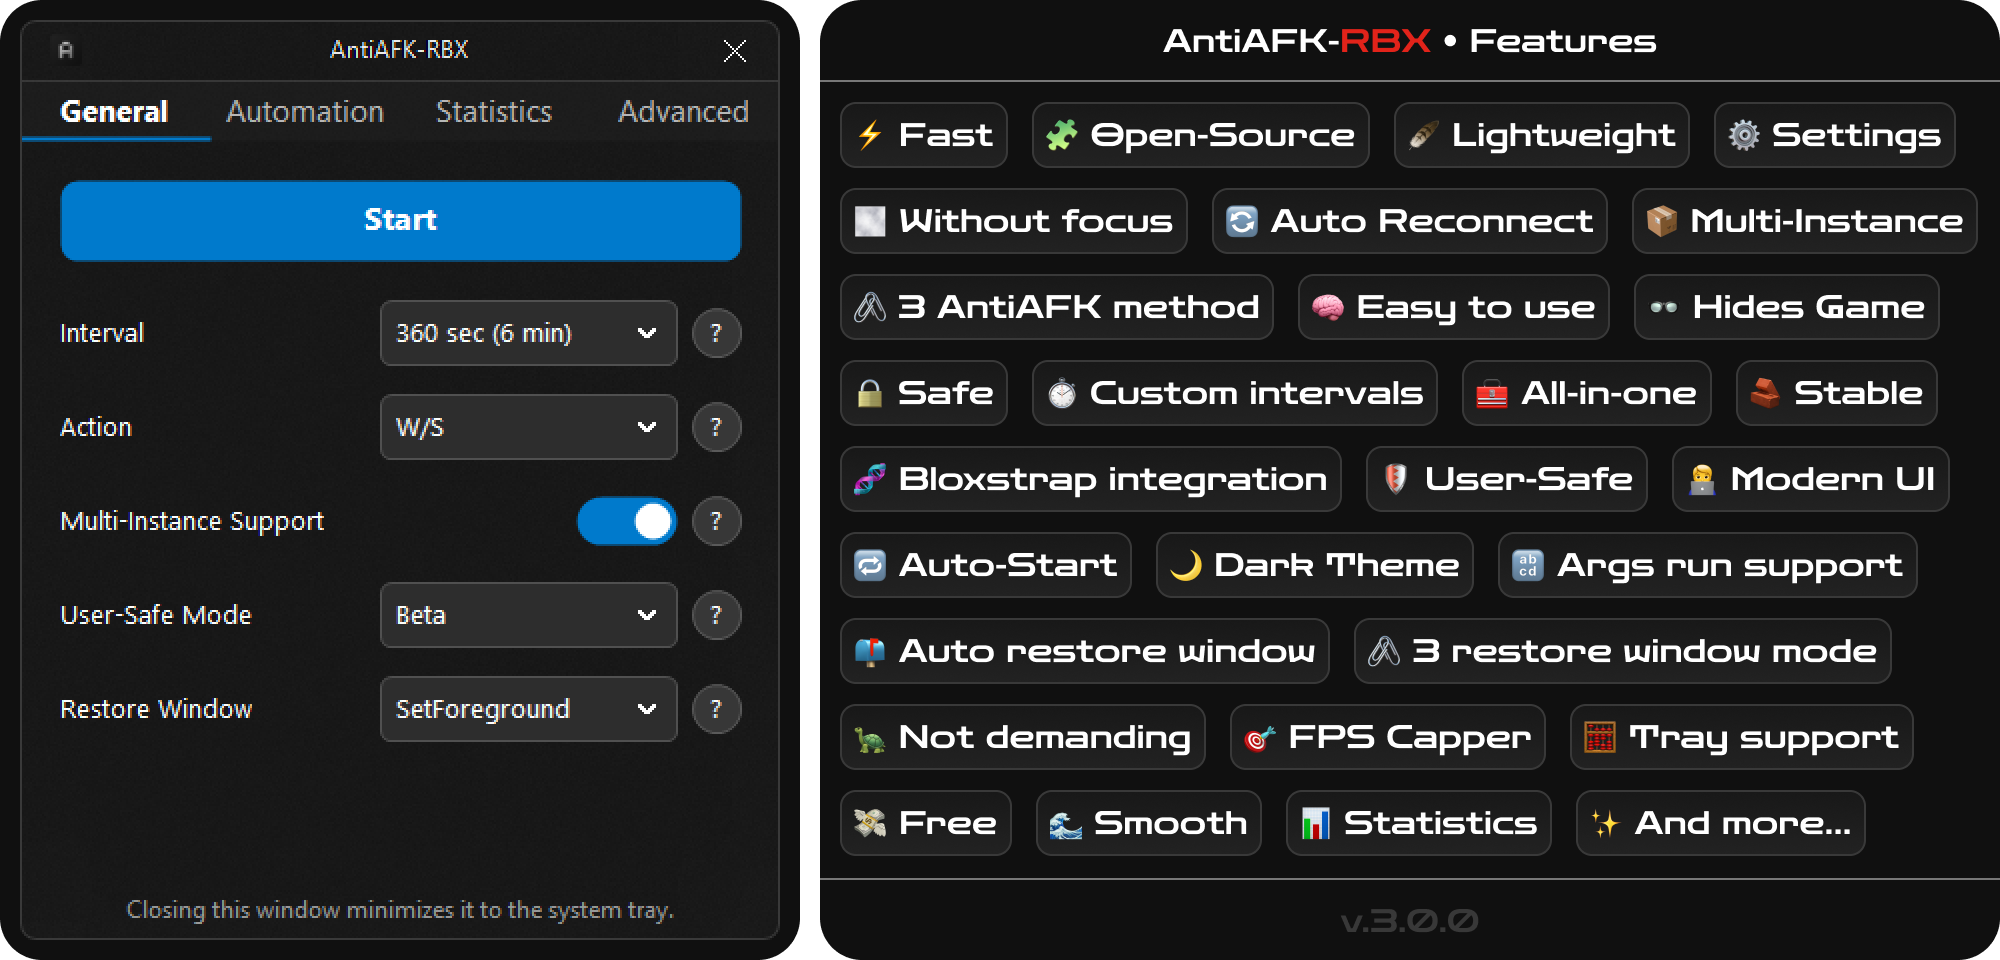
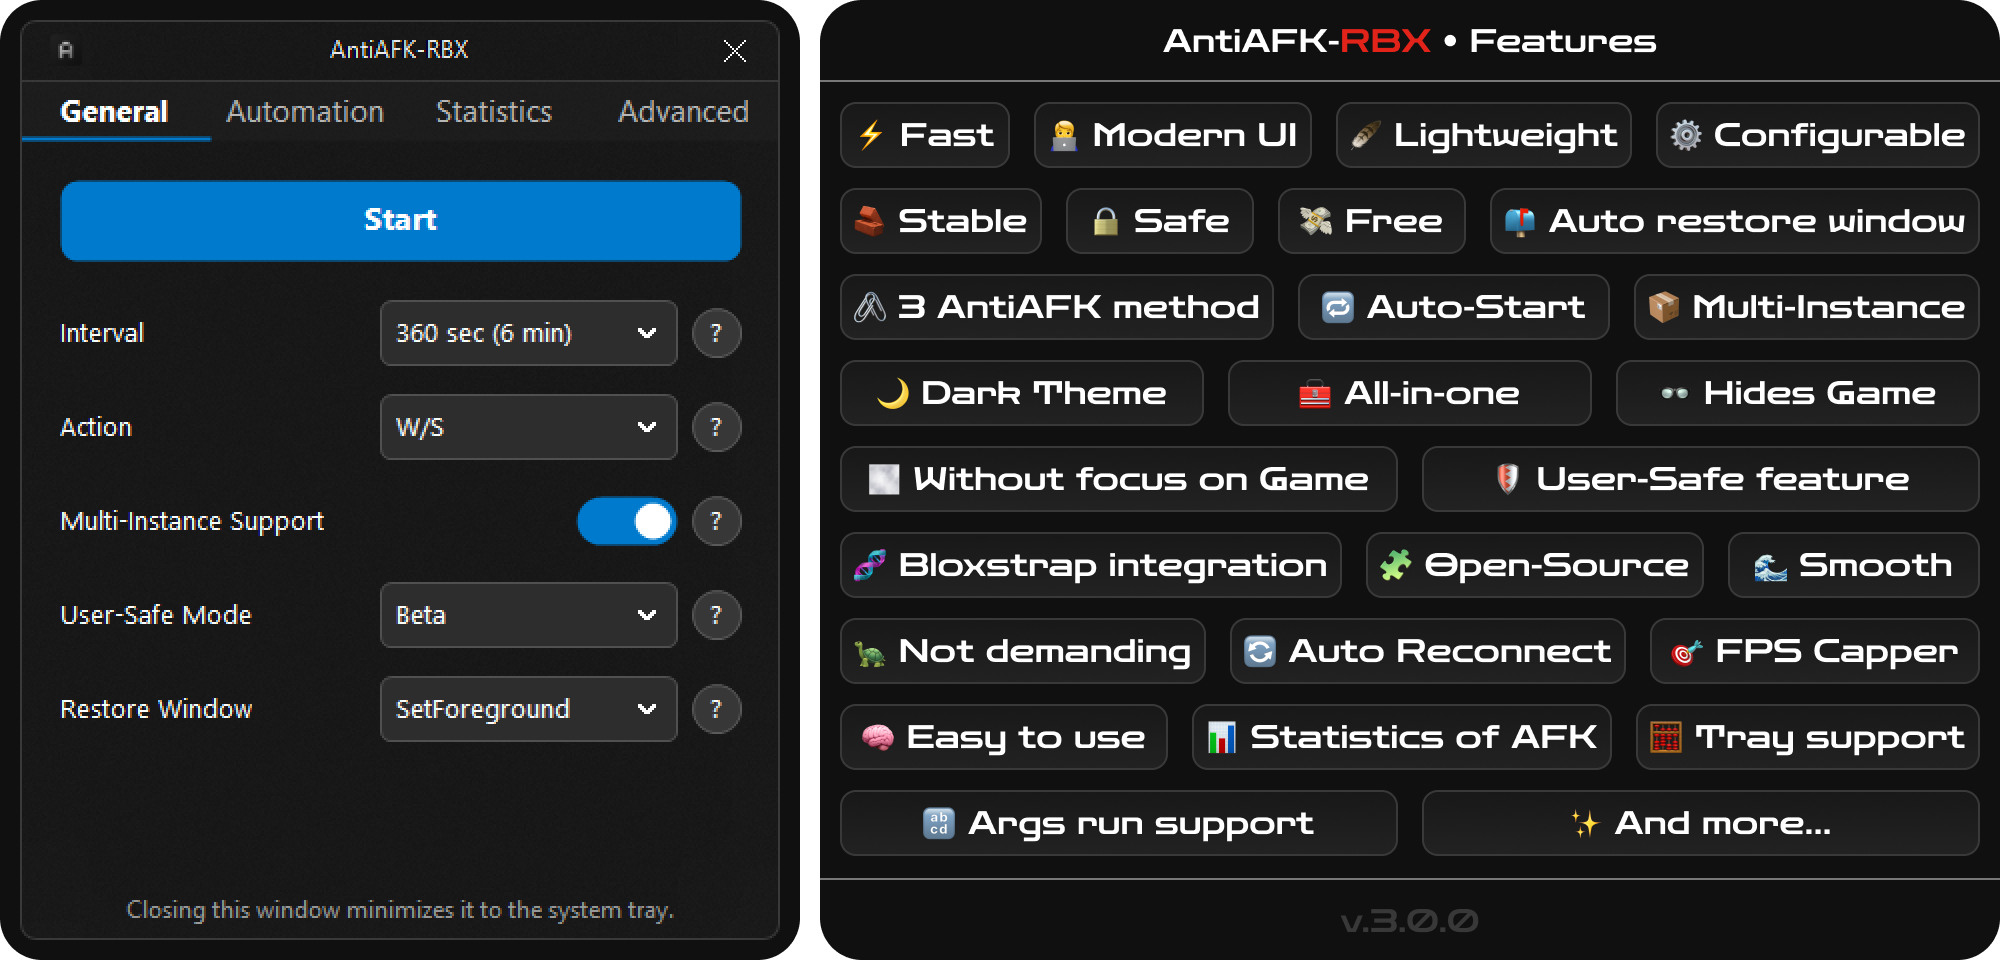
🖼 • ReadME

diff --git a/README.md b/README.md
@@ -4,7 +4,7 @@
 
 
 ![AntiAFK-RBX by Agzes v.3.0 Banner ](ReadME/V3-Banner.png)
-![UI, Features: fast, open-source, lightweight, settings, without focus, auto reconnect, multi-instance, 3 antiafk method, easy to use, hides game, safe, custom intervals, all-in-one, stable, bloxstrap integration, user-safe, modern ui, auto-start, dark theme, args run support, auto restore window, 3 restore window mode, not demanding, fps capper, statistics, tray support, smooth, and more...](ReadME/V3-Main.png)
+![UI, Features: Fast, Modern UI, Lightweight, Configurable, Stable, Safe, Free, Auto restore window, 3 AntiAFK method, Auto-Start, Multi-Instance, Dark Theme, All-in-one, Hides Game, Without focus on game, User-Safe feature, Bloxstrap integration, Open-Source, Smooth, Not demanding, Auto Reconnect, FPS Capper, Easy to use, Statistics of AFK, Tray Support, Args run support, and more...](ReadME/V3-Main.png)
 
 
 <p align="center" width="100%">
